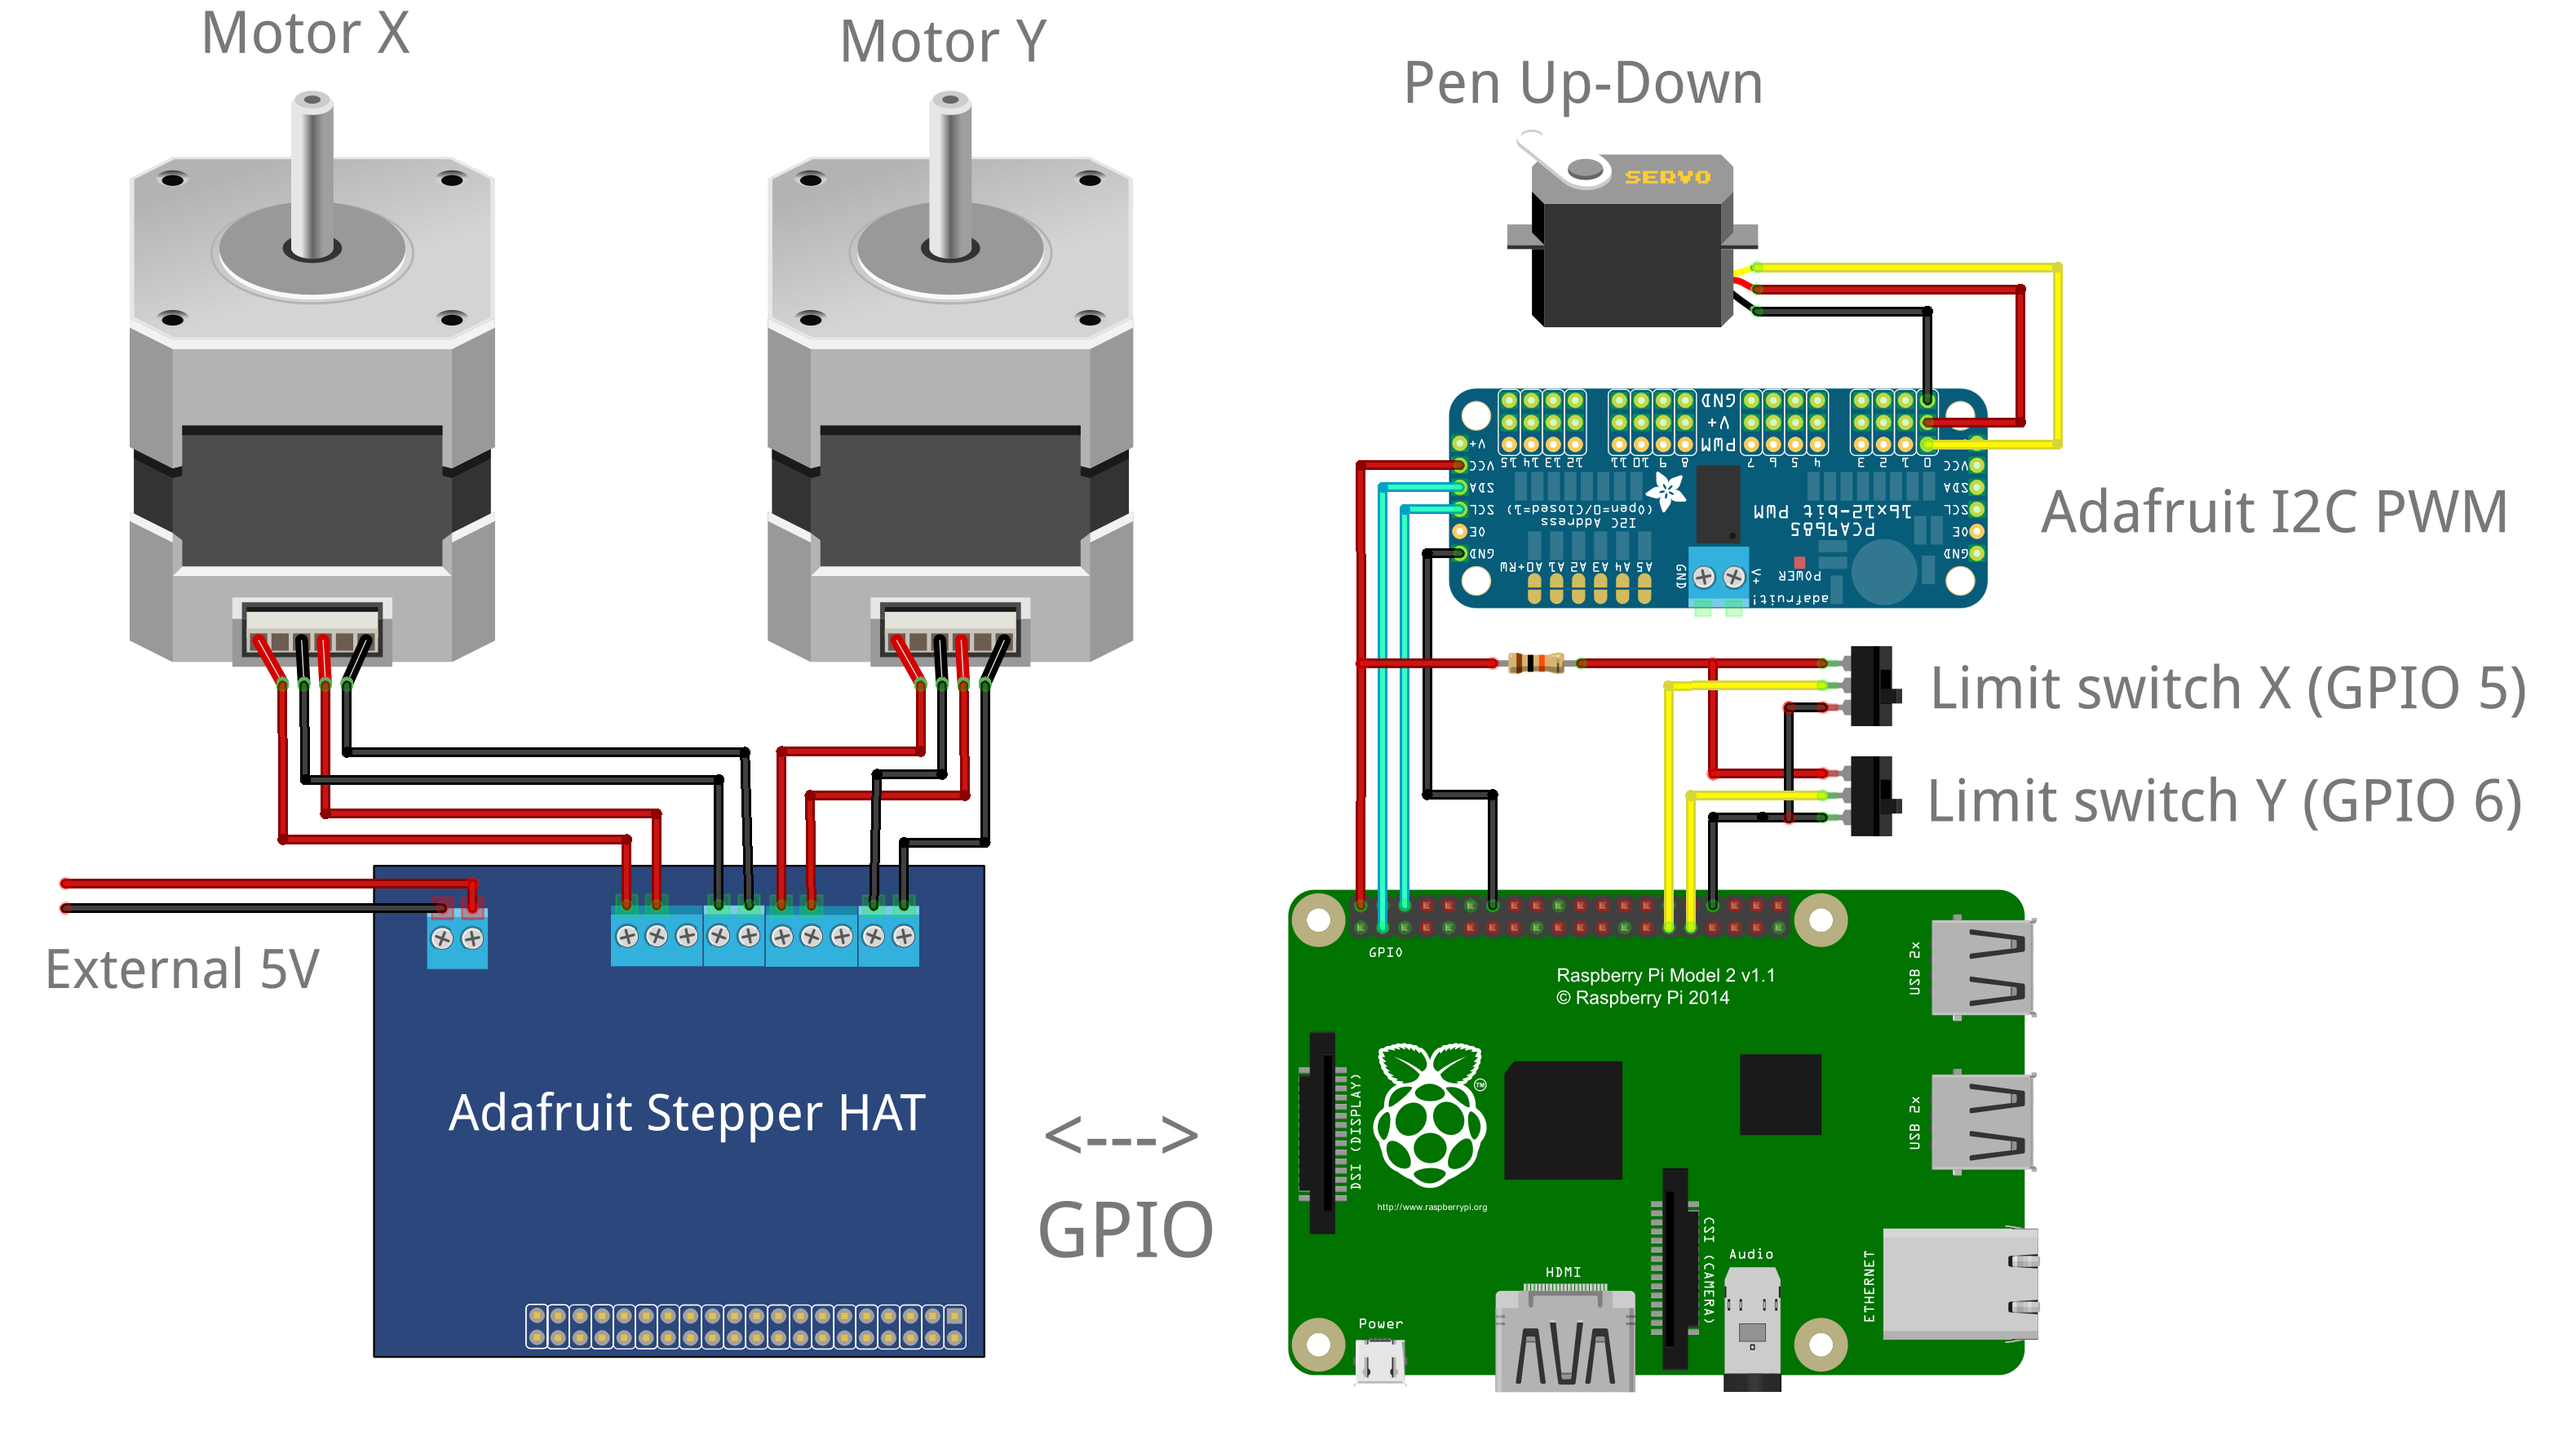
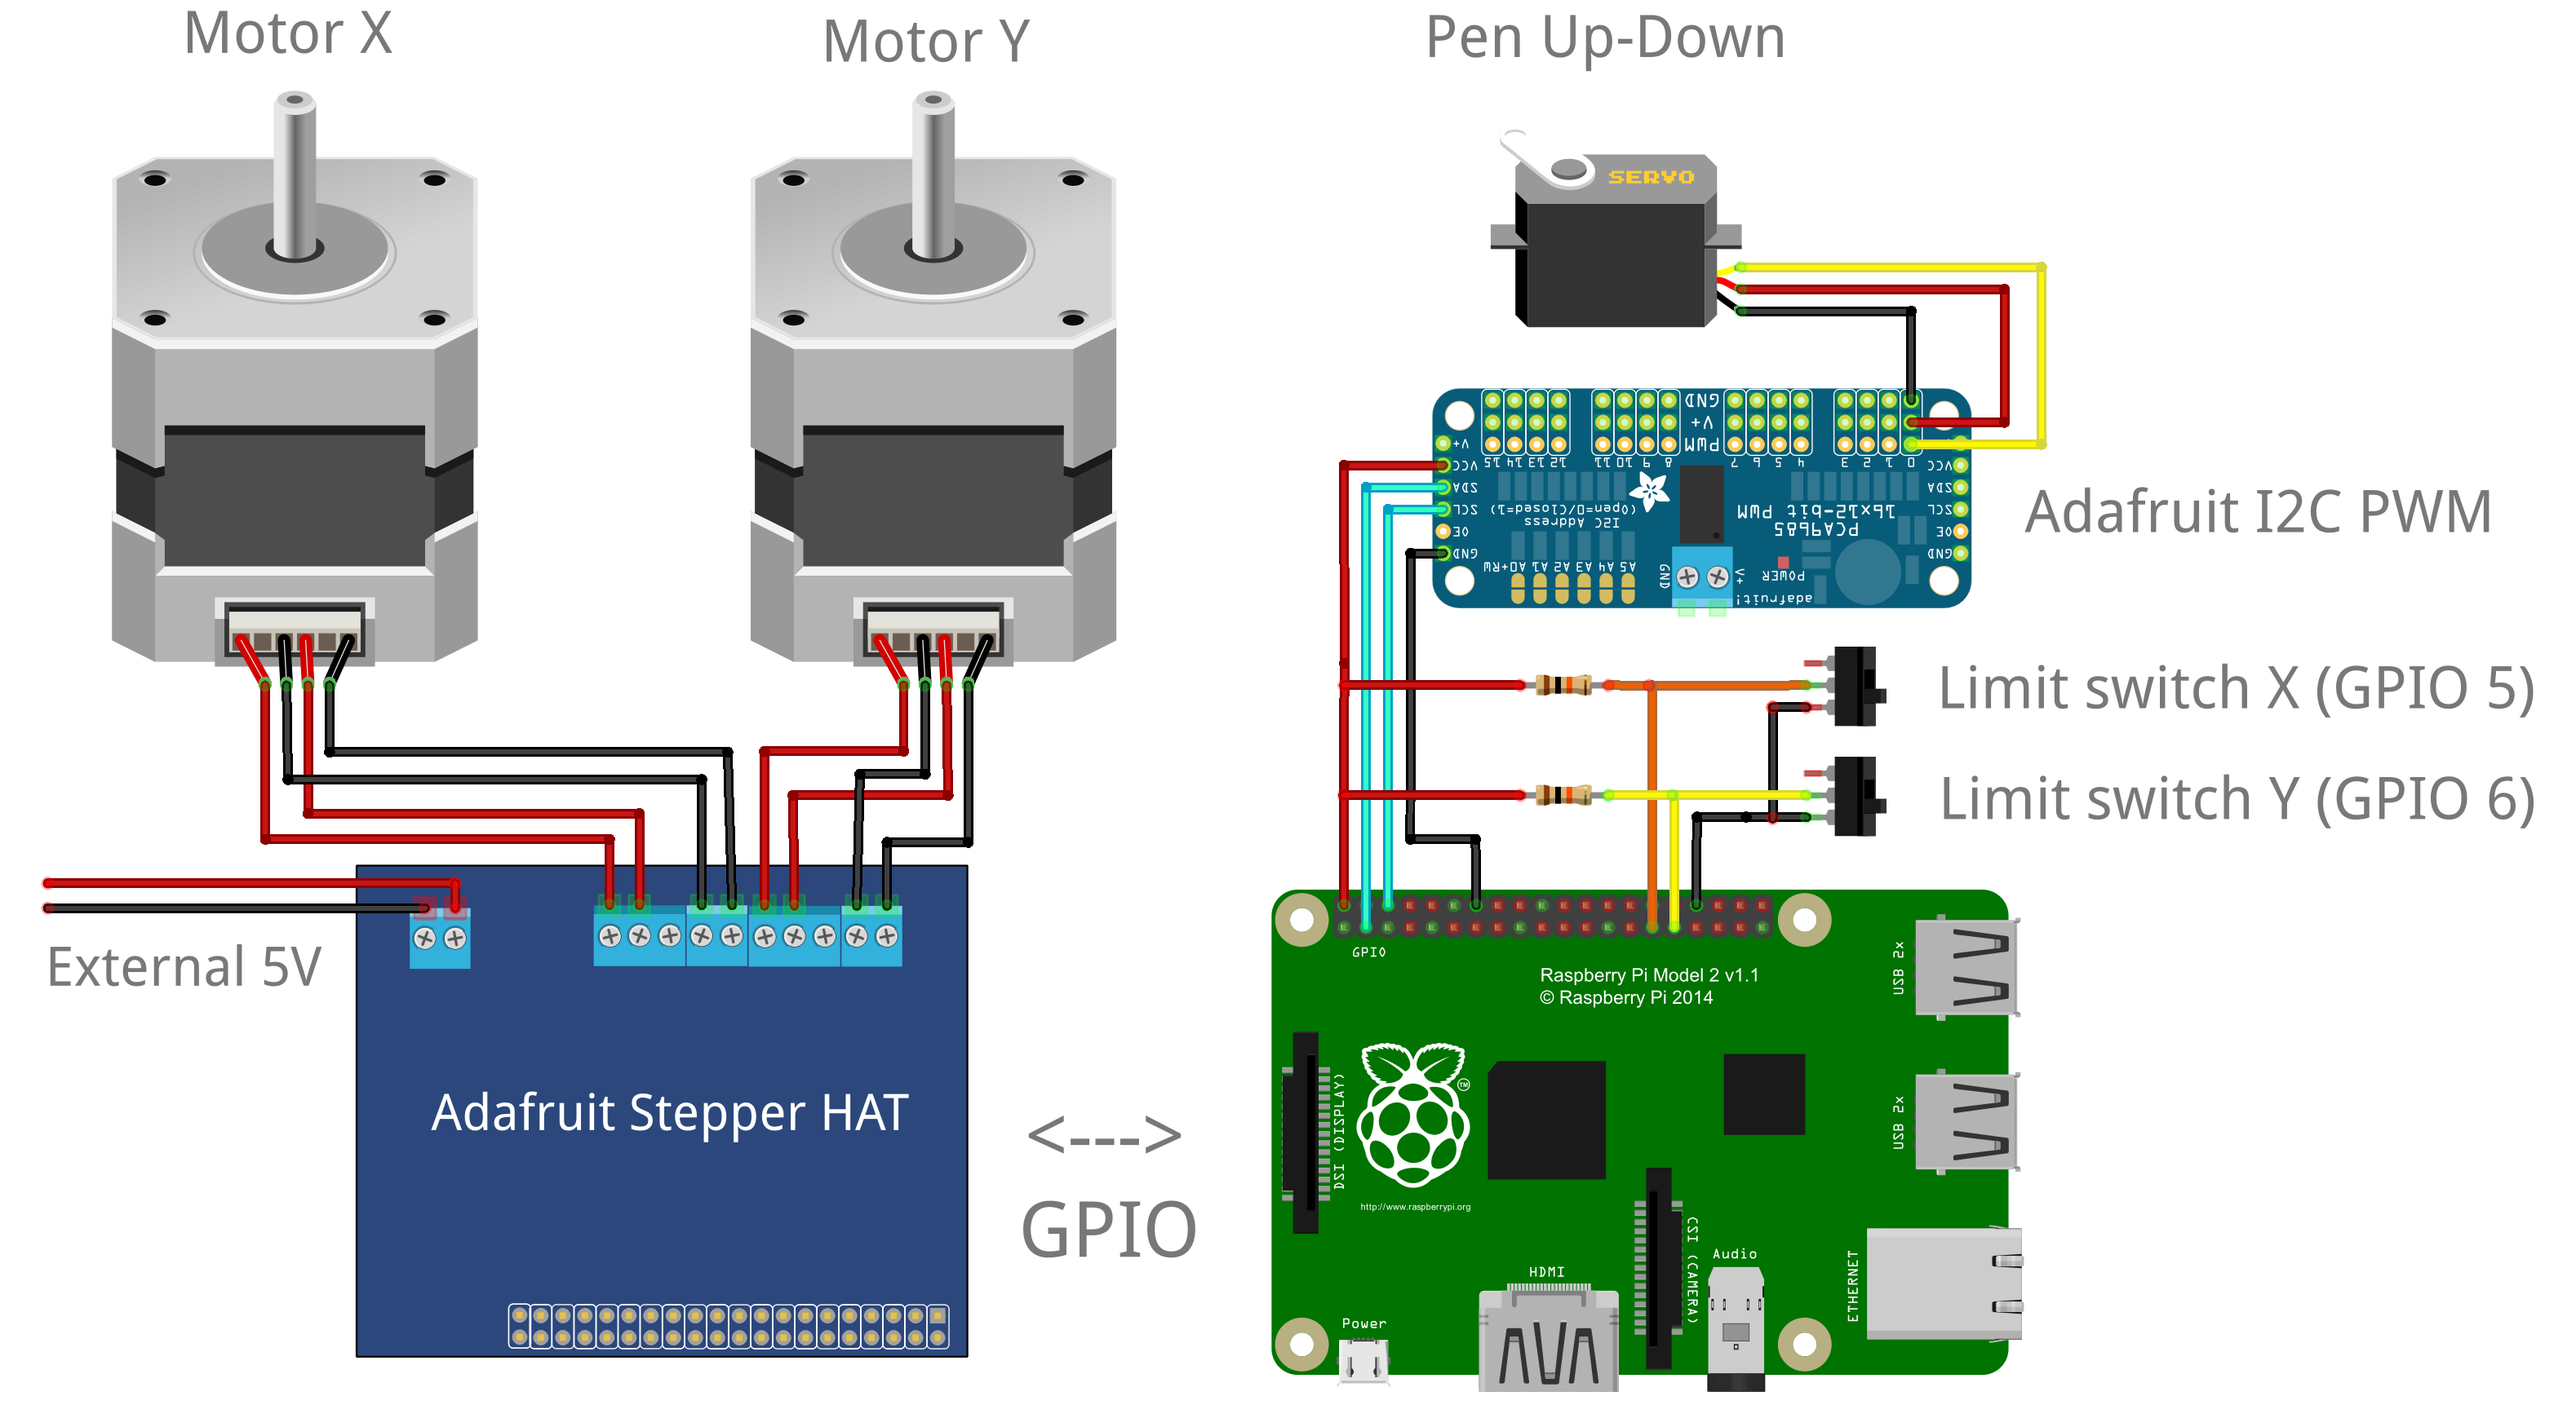
Fix minor mistakes in wiring diagram

Changed region(s): [[0.0, 0.0, 0.9949, 0.9874]]

diff --git a/PlotterWin10/README.md b/PlotterWin10/README.md
@@ -15,7 +15,7 @@ Plotter running Windows 10 IoT Core
 
 ## Wiring ##
 
-<img src="https://github.com/cazacov/InternetOfThings/blob/master/PlotterWin10/img/WiringScheme.png?raw=true" width="858" height="483"/>
+<img src="https://github.com/cazacov/InternetOfThings/blob/master/PlotterWin10/img/WiringScheme.png?raw=true" width="858" height="476"/>
 
 
 ## X-Y coordinate table with two stepper motors ##
